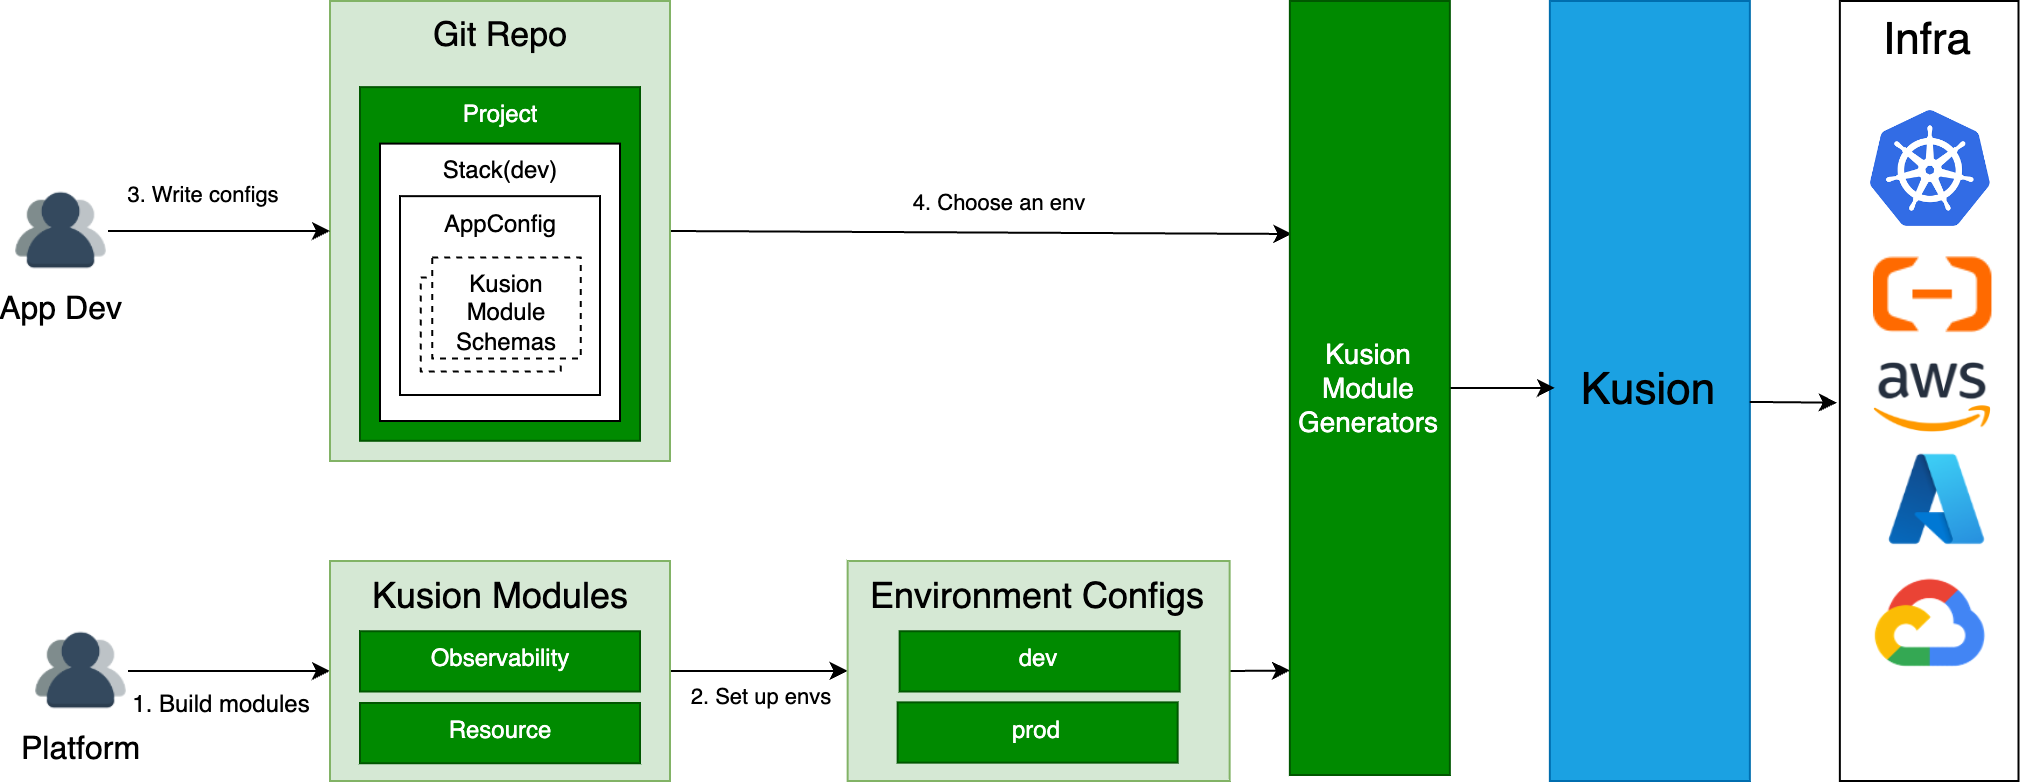
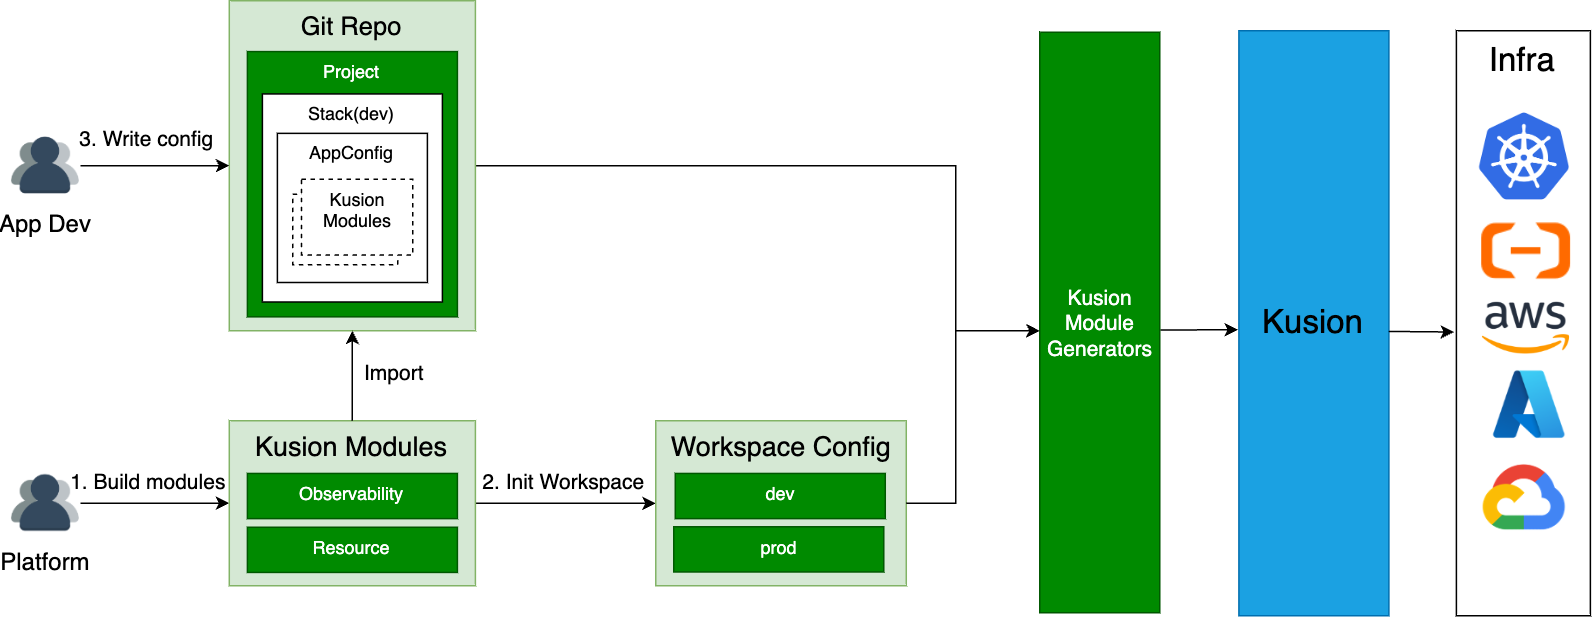
docs: update the collaboration design doc (#663)

Changed region(s): [[0.0, 0.0, 1.0, 1.0]]

diff --git a/docs/design/collaboration/Building the collaboration paradigm between App Developers and Platform Developers with Kusion.md b/docs/design/collaboration/Building the collaboration paradigm between App Developers and Platform Developers with Kusion.md
@@ -130,9 +130,9 @@ We introduce a set of Kusion modules to standardize deployment and the root modu
 
 Before we dive into details, it is necessary to clarify certain terms.
 
-- Environment: Environment is a logical concept representing a target that an application will be deployed to. We just recommend they be grouped by SDLC phases or cloud vendors. For example, it could be named as `dev`, `staging`, and `prod` or cloud vendors such as `AWS`, `Azure`, and `Aliyun` or a even combination of the two.
+- Workspace: A workspace is a logical concept representing a target that an application will be deployed to. We just recommend they be grouped by SDLC phases or cloud vendors. For example, it could be named as `dev`, `staging`, and `prod` or cloud vendors such as `AWS`, `Azure`, and `Aliyun` or a even combination of the two.
 - [Project](https://kusionstack.io/docs/user_docs/concepts/glossary#project): A project is a logical concept to bundle application configurations.
-- [Stack](https://kusionstack.io/docs/user_docs/concepts/glossary#stack): A stack is a logical concept that provides a mechanism to isolate multiple deploys of the same application. It is the smallest operational unit that can be configured and deployed independently and must be linked with one environment.
+- [Stack](https://kusionstack.io/docs/user_docs/concepts/glossary#stack): A stack is a logical concept that provides a mechanism to isolate multiple deploys of the same application. It is the smallest operational unit that can be configured and deployed independently. The name of each stack must be the same as one specific workspace.
 
 <p align="center">
 <img src="../workspace-project-stack.png" width="50%"/>
@@ -144,7 +144,7 @@ Before we dive into details, it is necessary to clarify certain terms.
 
 A Kusion module is a building block designed by platform engineers to standardize application deployments and it consists of two parts:
 
-- App developer-oriented schema: Fields in this schema are recommended to be understandable to application developers and environment-agnostic. For example, a database Kusion module schema only contains fields like database engine type and database version.
+- App developer-oriented schema: Fields in this schema are recommended to be understandable to application developers and workspace-agnostic. For example, a database Kusion module schema only contains fields like database engine type and database version.
 - Kusion module generator: As a building block, Kusion module hides the complexity of infrastructures. A database Kusion module not only represents a cloud RDS, but it also contains logic to configure other resources such as security groups and IAM policies. Additionally, it seamlessly injects the database host address, username, and password into the workload's environment variables. The generator logic can be very complex in some situations so we recommend implementing it in a GPL like `Go`.
 
 <p align="center">
@@ -185,11 +185,11 @@ schema Database:
 
 Application developers will choose Kusion modules they need and instantiate them in the AppConfiguration to describe their operation intentions. We have built some built-in Kusion modules in the repository [Catalog](https://github.com/KusionStack/catalog) and we warmly welcome you to join us in building this ecosystem together.
   
-### Instantiate and set up environments
+### Instantiate and set up workspaces
 
-Each environment includes a corresponding config file maintained by platform engineers. The environment config file contains values that are used to standardize applications but vary from different environments. For example, the subnets in the `prod` and `dev` environment of one application are usually different and platform engineers can change these platform standardizations easily by instantiating two different environment configs.
+Each workspace includes a corresponding config file maintained by platform engineers. The workspace config file contains values that are used to standardize applications but vary from different workspaces. For example, the subnets in the `prod` and `dev` workspace of one application are usually different and platform engineers can change these platform standardizations easily by instantiating two different workspace configs.
 
-Platform engineers should instantiate all environments and fulfill all fields with platform default values. An example is as follows.
+Platform engineers should instantiate all workspaces and fulfill all fields with platform default values. Kusion will merge the workspace configuration with AppConfiguration in the Stack of the same name. An example is as follows.
 
 ```yaml
 # default configs applied to all applications
@@ -207,7 +207,7 @@ app1:
     instanceClass: mysql.n2.serverless.2c
 ```
 
-The `database` block represents a Kusion module and the fields in it are inputs of the Kusion module generator. Configurations in the `default` block will be applied to all applications in this environment and configurations in the `app1` block will only be applied to application `app1` and they will override default configs with the same field name.
+The `database` block represents a Kusion module and the fields in it are inputs of the Kusion module generator. Configurations in the `default` block will be applied to all applications in this workspace and configurations in the `app1` block will only be applied to application `app1` and they will override default configs with the same field name.
 
 ## Application developer's workflow
 
@@ -247,15 +247,13 @@ wordpress: ac.AppConfiguration {
 
 `workload` and `database` are both Kusion modules provided by platform engineers and Kusion will convert them into actual infrastructure API calls eventually.
 
-### Choose an Environment
 
-The application developer should choose an environment provided by platform engineers by setting the environment config file path into the OS environment variables `KUSION_ENV`. This step links the application developer's config with an environment config and Kusion will combine them and convert them into the inputs of Kusion module generators.
+## Summary
 
 <p align="center">
 <img src="../collaboration-workflow.png"/>
 </>
 
-Summary
 This paradigm has three advantages:
 
 1. Separate concerns of application developers and platform engineers by using different Kusion modules to facilitate collaboration between them.
